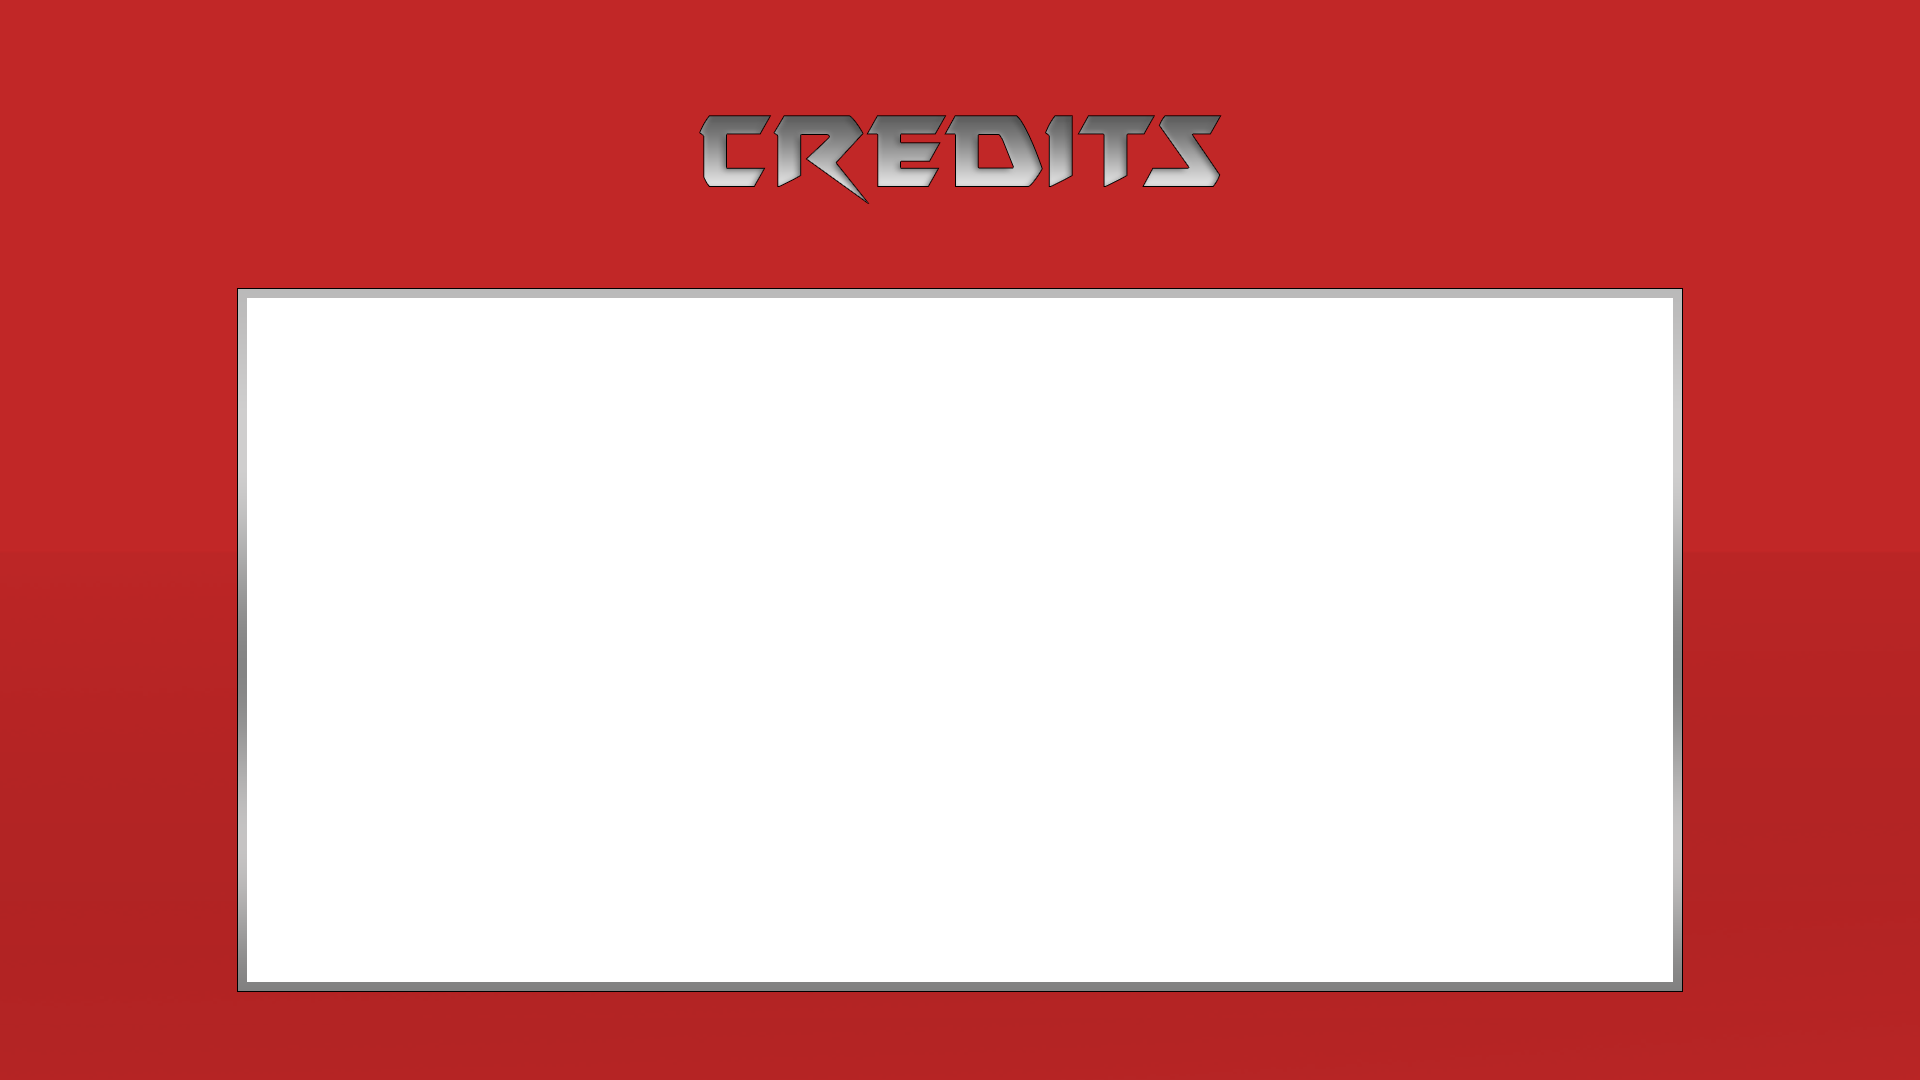
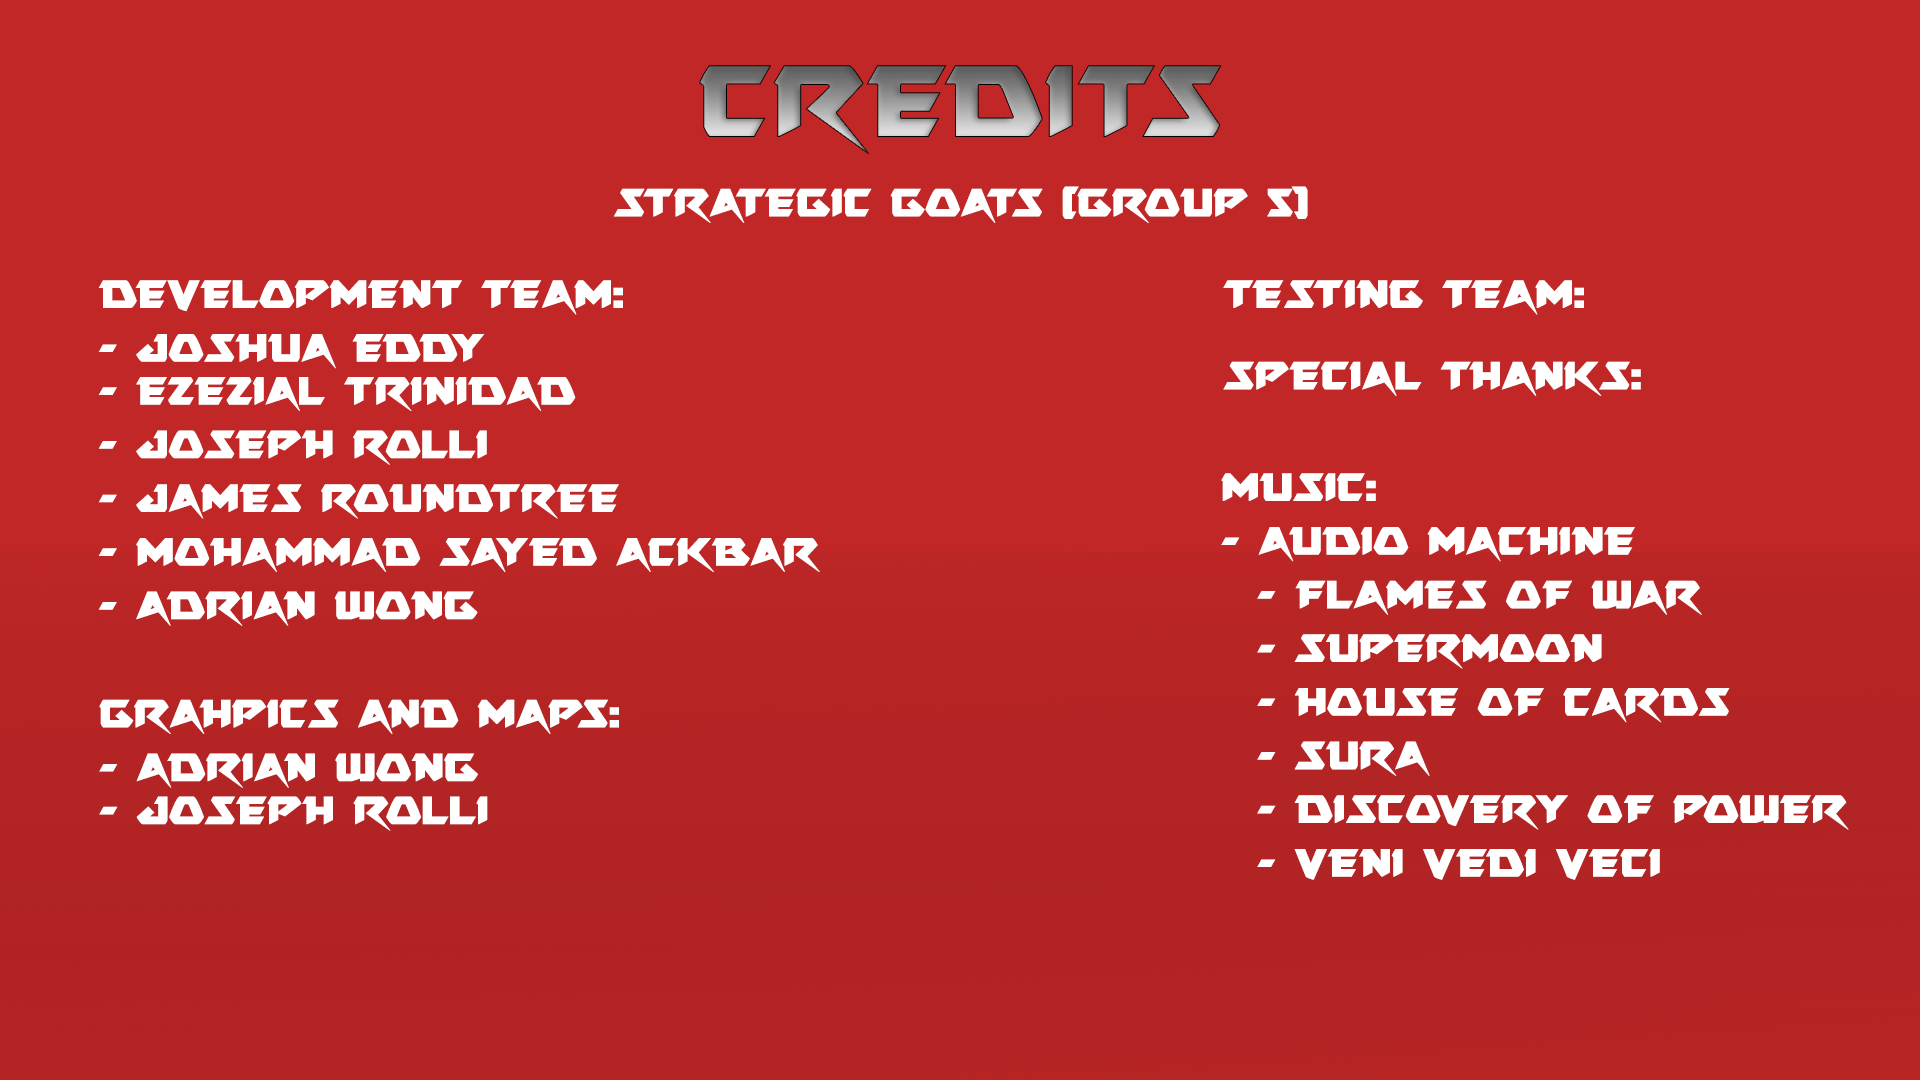
work so far - not sure how it is :/

diff --git a/CS2010/src/peril/views/slick/states/Credits.java b/CS2010/src/peril/views/slick/states/Credits.java
@@ -2,6 +2,7 @@ package peril.views.slick.states;
 
 import org.newdawn.slick.Color;
 import org.newdawn.slick.GameContainer;
+import org.newdawn.slick.Image;
 import org.newdawn.slick.Music;
 import org.newdawn.slick.SlickException;
 import org.newdawn.slick.state.StateBasedGame;
@@ -12,6 +13,7 @@ import peril.views.slick.Frame;
 import peril.views.slick.components.menus.HelpMenu;
 import peril.views.slick.util.Button;
 import peril.views.slick.util.Font;
+import peril.views.slick.util.Point;
 import peril.views.slick.util.Viewable;
 
 /**
@@ -41,14 +43,41 @@ public final class Credits extends InteractiveState {
 	private final String menuButton;
 	
 	/**
-	 * The background {@link Viewable} of the {@link Credits}.
+	 * The {@link Button} that will cause the {@link Credits} to exit the
+	 * {@link Game}.
 	 */
-	private Viewable background;
+	private final String exitButton;
+	
 	
 	/**
 	 * The background music for this {@link Credits}.
 	 */
 	private Music music;
+	
+	/**
+	 * The image for this {@link Credits}.
+	 */
+	private Image credits;
+	
+	/**
+	 * The position for this {@link Credits}.
+	 */
+	private float creditsPosX = 0;
+	
+	/**
+	 * The position for this {@link Credits}.
+	 */
+	private float creditsPosY = 0;
+	
+	/**
+	 * This {@link Credits} does not run at the start.
+	 */
+	public static boolean creditsRunning = false;
+	
+	/**
+	 * Holds the contents of the credits.txt file.
+	 */
+	//private final String[] creditsFile;
 	
 	/**
 	 * Constructs a new {@link Credits}.
@@ -57,12 +86,14 @@ public final class Credits extends InteractiveState {
 	 *            The {@link Game} this state is a part of.
 	 * @param id
 	 *            The id of this {@link Credits}.
+	 * @throws SlickException 
 	 */
-	public Credits(GameController game, int id) {
-		super(game, NAME, id, HelpMenu.NULL_PAGE);
-		// TODO Auto-generated constructor stub
+	public Credits(GameController game, int id) throws SlickException {
+		super(game, NAME, id, HelpMenu.NULL_PAGE);	
 		creditsFont = new Font("Arial", Color.black, 20);
 		menuButton = "menu";
+		exitButton = "exit";
+	    credits = new Image("assets/ui/credits.png");
 		
 	}	
 	
@@ -73,7 +104,7 @@ public final class Credits extends InteractiveState {
 	public void init(GameContainer gc, StateBasedGame sbg) throws SlickException {
 		super.init(gc, sbg);
 
-		music = slick.music.read("credits");
+		music = slick.music.read("credits"); //add later
 
 		// Initialise Fonts
 		creditsFont.init();
@@ -85,15 +116,32 @@ public final class Credits extends InteractiveState {
 	@Override
 	public void enter(GameContainer gc, StateBasedGame sbg) {
 
-		changeMusic(gc);
-		
-		// Scale the background image to fill the screen.
-		background.scale(gc.getWidth(), gc.getHeight());
+		super.changeMusic(gc);
+
+		int padding = 20;
+
+		// Reposition menu button based on screen size.
+		int menuX = gc.getWidth() - getButton(menuButton).getWidth() - padding;
+		int menuY = gc.getHeight() - getButton(menuButton).getHeight() - padding;
+		getButton(menuButton).setPosition(new Point(menuX, menuY));
+
+		// Reposition exit button based on screen size.
+		int exitX = padding;
+		int exitY = gc.getHeight() - getButton(exitButton).getHeight() - padding;
+		getButton(exitButton).setPosition(new Point(exitX, exitY));
+			
 	}
 
 	@Override
-	public void update(GameContainer gc, int delta, Frame frame) {
-		// Do nothing
+	public void update(GameContainer gc, int delta, Frame frame) {	
+		
+		//makes the scrolling effect (if text cant fit on screen)
+		if (creditsRunning == true) {
+			creditsPosY -= delta * 0.5f;
+			if (creditsPosY < 500) {
+				creditsPosY += delta * 0.5f;			
+			}
+		}
 	}
 
 	/**
@@ -105,6 +153,17 @@ public final class Credits extends InteractiveState {
 		drawImages();
 		drawButtons();
 		
+		credits.draw(creditsPosX, creditsPosY);
+		
+	}
+	
+	/**
+	 * Performs the exit state operations specific to the {@link Credits}.
+	 */
+	@Override
+	public void leave(GameContainer container, StateBasedGame game) throws SlickException {
+		super.leave(container, game);
+
 	}
 	
 	/**
